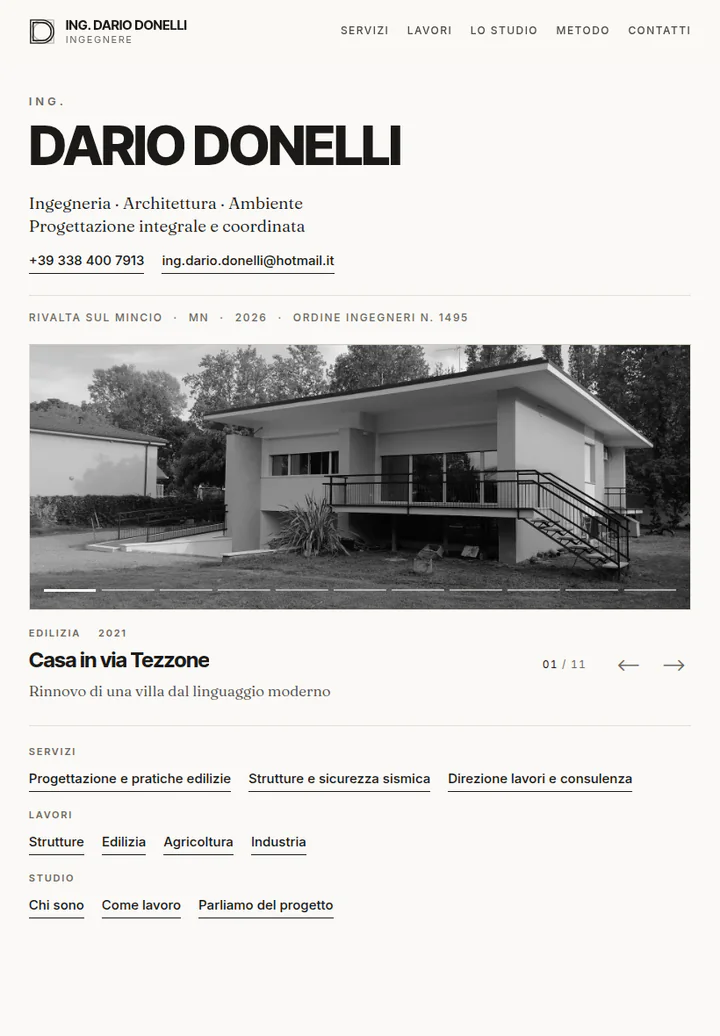
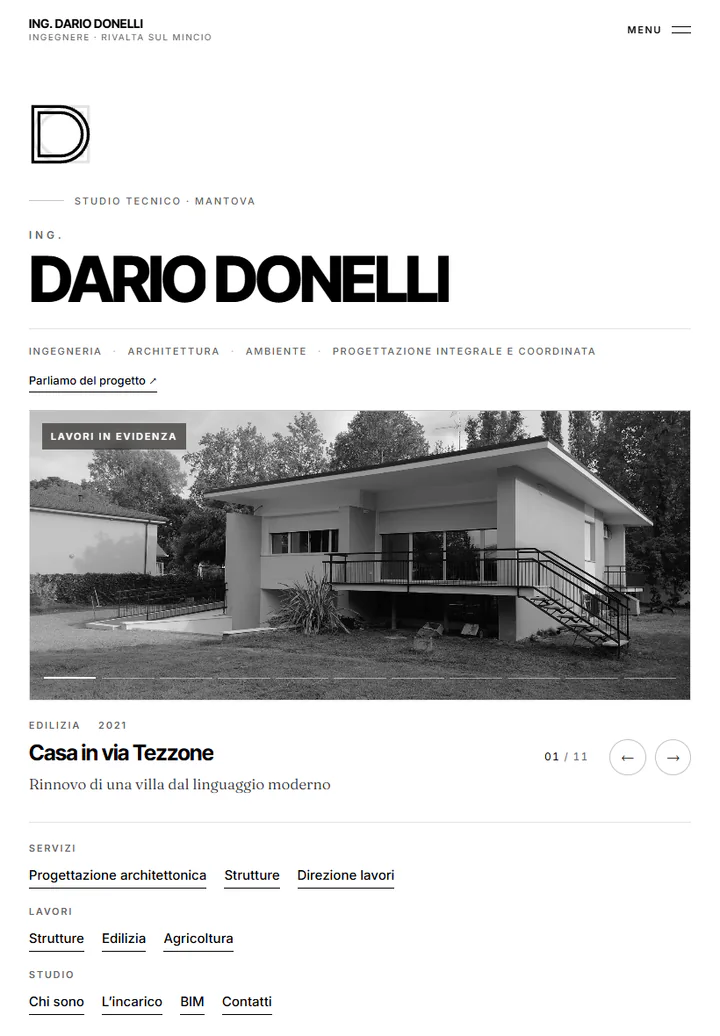
chore(catture): le catture nuove di AP e Donelli, e pzkko nello strumento
- AP: le schermate desktop, tablet e telefono rifatte dopo il restyling; via ap-iphone-06, la pagina intera e piu corta.

- Donelli: le catture vengono da dariodonelli.com dopo la revisione dello studio.

- catture.mjs salta i progetti non piu pubblicati invece di fermare il giro; siti.js aggiunge pzkko.it (profilo dal vivo, Progetti, Chat, Casino) e toglie Rivalta.

diff --git a/albertopecchini.it/tools/catture/siti.js b/albertopecchini.it/tools/catture/siti.js
@@ -83,4 +83,38 @@ export const siti = {
     catture: casa('dd'),
   },
 
+  // (25.11.2026) pzkko.it, il profilo di Discord. Il canale diretto col pc resta sempre aperto e la pagina non
+  // arriva mai a «rete ferma»: si carica fino al documento e si aspetta che il profilo dal vivo sia in pagina.
+  // L'invito (o il volantino) che può uscire all'arrivo si chiude: la cattura è la pagina com'è dopo.
+  'pzkko-it': {
+    carica: 'domcontentloaded',
+    prima: async (page) => {
+      await page
+        .waitForFunction(() => document.querySelectorAll('.tab').length >= 5 && [...document.querySelectorAll('#card img')].every((i) => i.complete), { timeout: 60_000, polling: 500 })
+        .catch(() => console.log(`! ${page.url()}: il profilo non è arrivato`))
+      await new Promise((r) => setTimeout(r, 3000))
+      await page.evaluate(() => document.querySelectorAll('dialog[open]').forEach((d) => d.close()))
+      await page.evaluate(() => scrollTo(0, 0))
+    },
+    // Senza le pagine intere: la scheda del profilo e la barra delle schede restano appiccicate a metà pagina, e
+    // in fondo alla bacheca c'è la scheda Instagram con l'account personale (fuori da questo sito dal 12.11.2026)
+    catture: [
+      ...casa('pzk').filter((c) => !c.formato.endsWith('Tall')),
+      { file: 'pzk-progetti-desktop.webp', percorso: '/#progetti', formato: 'desktop' },
+      // sul tablet le schede stanno sotto il profilo: si scende fino alla barra delle schede
+      { file: 'pzk-chat-tablet.webp', percorso: '/#chat', formato: 'tablet', viewport: [820, 1093], prima: scorriA('#tabs', 12) },
+      // #progetti/giochini apre la scheda del casinò sopra il profilo (div.pv, non un <dialog>: la chiusura qui sopra non
+      // la tocca); la prima voce della galleria è un filmato, fermo coi suoi comandi: si mostra la seconda, una foto
+      {
+        file: 'pzk-casino-mobile.webp',
+        percorso: '/#progetti/giochini',
+        formato: 'mobile',
+        prima: async (page) => {
+          await page.waitForSelector('.pv.is-on', { timeout: 20_000 }).catch(() => console.log('! la scheda del casinò non si è aperta'))
+          await page.evaluate(() => document.querySelector('.pv [data-go="1"]')?.click())
+          await new Promise((r) => setTimeout(r, 1200))
+        },
+      },
+    ],
+  },
 }

diff --git a/albertopecchini.it/tools/catture/README.md b/albertopecchini.it/tools/catture/README.md
@@ -9,11 +9,11 @@ iPhone, gallerie delle pagine interne, strisce dell’iPhone 18 Pro) stanno in
 | `rivaltasulmincio-it` | www.rivaltasulmincio.it | `rivalta-*` (home + mappa desktop e mobile con la scheda della chiesa, scheda del luogo su tablet) |
 | `cascina-fontana` | www.cascinafontana.xyz | `cascina-*` (home + Prodotti, galleria con la lightbox, Contatti) |
 | `albertopecchini-it` | www.albertopecchini.it | `ap-*` (home + `ap-iphone-NN`, pagina intera a strisce) |
-| `dario-donelli` | dariodonelli.vercel.app | `dd-*` (home) |
-| `pzkko-it` | www.pzkko.it | `pzk-*` (home di giorno con `?ora=12:00&notte=0`, la stessa di notte con `?ora=22:00&notte=1`, la roulette aperta su tablet, la 404 sul telefono; la finestra è la scena 3D, aspettata finché è pronta, le pagine intere il muro senza 3D, `?muro=1`) |
+| `dario-donelli` | www.dariodonelli.com | `dd-*` (home) |
 
-L’indirizzo viene da `web.url` in `src/data/projects.js`: quando Donelli passerà al suo
-dominio basta cambiarlo lì.
+L’indirizzo viene da `web.url` in `src/data/projects.js`: quando un sito cambia dominio
+basta cambiarlo lì (Donelli è passato da dariodonelli.vercel.app a dariodonelli.com il
+24.11.2026). Un progetto nascosto (`NASCOSTI`, oggi Rivalta) si salta senza fermare gli altri.
 
 ## Come funziona
 
@@ -45,7 +45,7 @@ web»); l’iPhone è 402×812 a 2x, a strisce di al più 2400 px CSS (4800 px) 
 - **a ogni push** che tocca lo strumento o il workflow: stesso giro (con lo strumento
   cambiato si rifà tutto, ma i file identici non producono commit).
 - **a mano**, da GitHub → Actions → *Catture dei siti* → *Run workflow*: si possono indicare
-  i siti (`rivalta`, `cascina`, `ap`, `dd`, `pzk`) e forzarli anche se non sono cambiati.
+  i siti (`cascina`, `ap`, `dd`) e forzarli anche se non sono cambiati.
 
 L’ultima impronta di ogni sito non sta nel repository ma nella cache delle Actions
 (`stato.json`): se la cache sparisce, il giro successivo rifotografa tutto e pubblica solo
